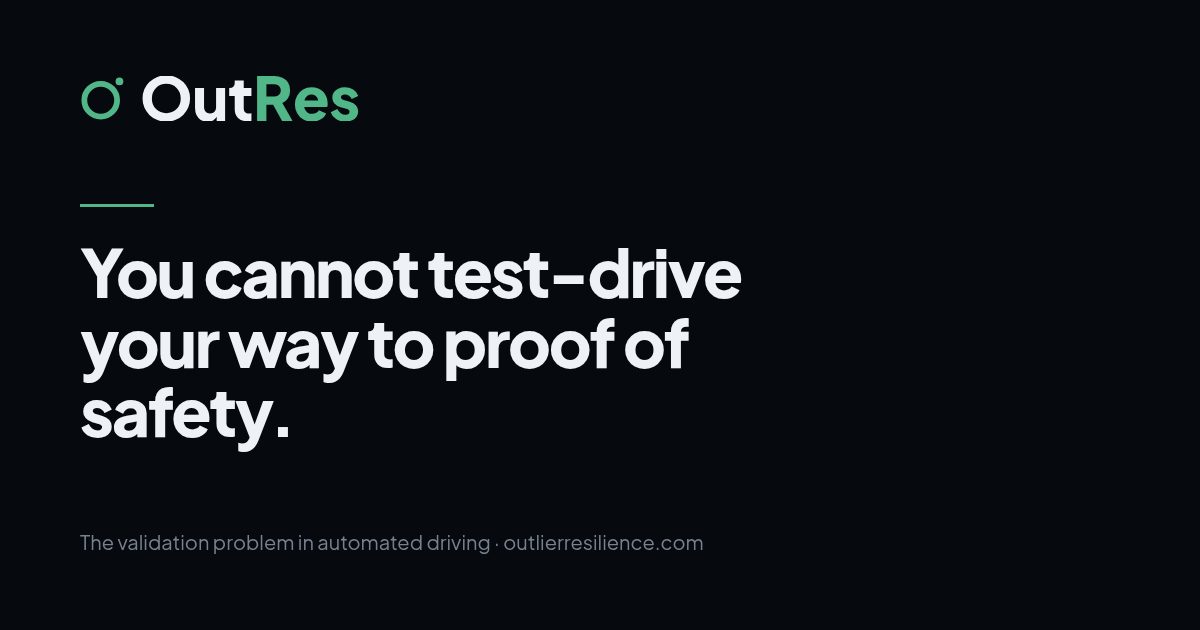
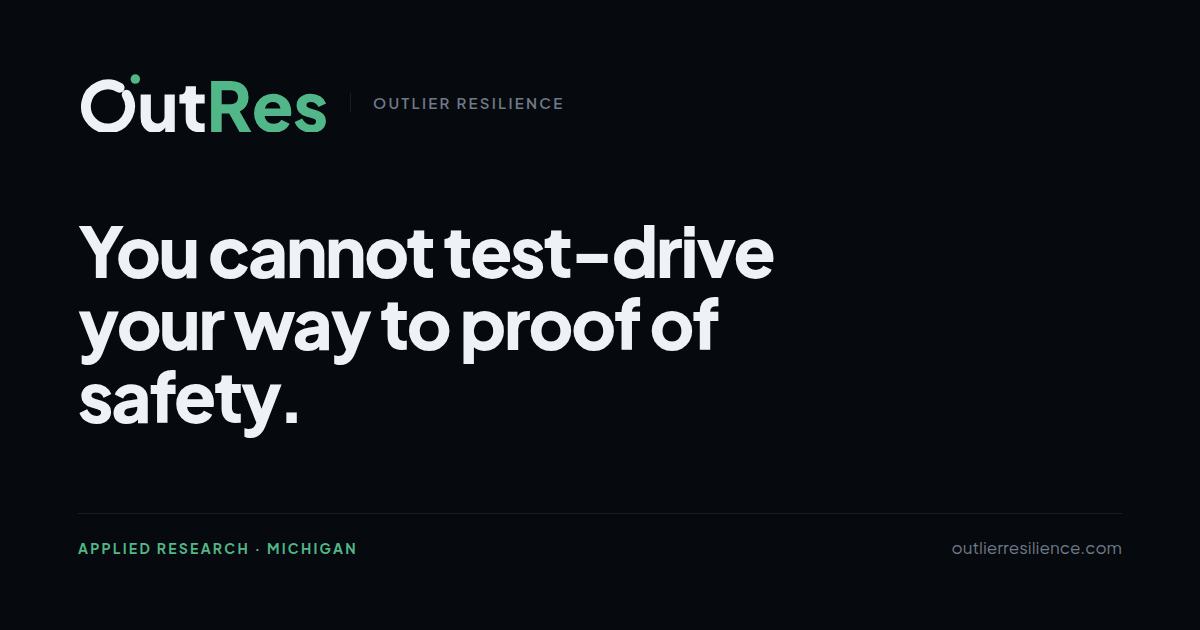
Make the mark the O of the wordmark, and clear the copy of AI tells
The old mark set a point one unit away from a closed ring, so the two
shapes fused. At small size it read as the Mars symbol. The green favicon
tile read as the Instagram glyph. The horizontal lockup then put that ring
beside the typeface O, so the eye read "O OutRes".

The ring now replaces the letter O. It carries a gap where the point
escaped, and that gap also breaks both misreadings. Green marks the point
and the word "Res", so the point reads as intent and not as a speck.

Logo:

- Retire the horizontal lockup. The wordmark is the primary logo.
- Rebuild the favicon as a dark tile with a green ring. It holds at 16 px
  on a light tab bar and on a dark one.
- Bake the colors into the shipped SVGs. currentColor does not cross an
  <img> boundary, so the old logo-mark.svg rendered black on black. Only
  the -mono files keep currentColor.
- Add tools/build-assets.py. The SVGs are generated, so edit the script.

Copy:

- Remove all 12 em dashes, including the ones in the title and the social
  card.
- Reduce the "not X, but Y" construction from five uses to three. The
  three that remain carry the argument.
- Drop the intensifier in "simply insufficient". Replace the unclear
  "Which sets the bar:".
- Even up the figures row. The third label ran to two lines on its own.

Claude-Session: https://claude.ai/code/session_01KYF6H8aFsV2YteBnZgoDUR

diff --git a/index.html b/index.html
@@ -3,7 +3,7 @@
 <head>
 <meta charset="UTF-8">
 <meta name="viewport" content="width=device-width, initial-scale=1">
-<title>OutRes — The Validation Problem in Automated Driving</title>
+<title>OutRes: The Validation Problem in Automated Driving</title>
 <meta name="description" content="Automated driving systems fail on the rare mile, not the average one. OutRes (Outlier Resilience LLC) is an applied research venture in Michigan working on the validation problem.">
 <link rel="canonical" href="https://outlierresilience.com/">
 
@@ -13,7 +13,7 @@
 <meta property="og:type" content="website">
 <meta property="og:url" content="https://outlierresilience.com/">
 <meta property="og:site_name" content="OutRes">
-<meta property="og:title" content="OutRes — The Validation Problem in Automated Driving">
+<meta property="og:title" content="OutRes: The Validation Problem in Automated Driving">
 <meta property="og:description" content="You cannot test-drive your way to proof of safety.">
 <meta property="og:image" content="https://outlierresilience.com/assets/og.png">
 <meta property="og:image:width" content="1200">
@@ -61,10 +61,10 @@ strong { color: var(--ink); font-weight: 600; }
 header.top { border-bottom: 1px solid var(--line); }
 header.top .wrap { display: flex; align-items: center; justify-content: space-between; height: 68px; gap: 20px; }
 .lockup { display: flex; align-items: center; gap: 15px; border: 0; }
-.lockup img { display: block; width: 150px; height: 24px; }
+.lockup img { display: block; width: 140px; height: 33px; }
 .lockup span {
-  font-size: 9px; font-weight: 600; letter-spacing: .2em; text-transform: uppercase;
-  color: var(--ink-3); line-height: 1.4; border-left: 1px solid var(--line); padding-left: 15px;
+  font-size: 10px; font-weight: 600; letter-spacing: .15em; text-transform: uppercase;
+  color: var(--ink-3); white-space: nowrap; border-left: 1px solid var(--line); padding-left: 15px;
 }
 nav { display: flex; gap: 24px; font-size: 13px; }
 nav a { color: var(--ink-3); border: 0; }
@@ -90,10 +90,10 @@ h2 {
 }
 h2 .n { position: absolute; left: 0; top: .12em; color: var(--accent); font-size: .72em; letter-spacing: .1em; }
 
-/* headline figures — not a chart */
+/* headline figures, not a chart */
 .kpi { display: grid; grid-template-columns: repeat(auto-fit, minmax(160px, 1fr)); gap: 26px 34px; margin: 26px 0; }
 .kpi .fig { font-size: 2.3rem; font-weight: 800; line-height: 1; letter-spacing: -.04em; color: var(--ink); font-variant-numeric: tabular-nums; }
-.kpi .lab { font-size: .8rem; color: var(--ink-3); margin-top: 8px; line-height: 1.45; }
+.kpi .lab { font-size: .8rem; color: var(--ink-3); margin-top: 8px; line-height: 1.45; min-height: 2.9em; }
 
 blockquote { margin: 24px 0 0; padding-left: 20px; border-left: 2px solid #2f6b50; max-width: var(--measure); }
 blockquote p { color: var(--ink); font-weight: 500; margin-bottom: 8px; }
@@ -129,9 +129,9 @@ footer a { color: var(--ink-3); border: 0; }
 
 <header class="top">
   <div class="wrap">
-    <a class="lockup" href="/" aria-label="OutRes — home">
-      <img src="assets/logo-lockup.svg" width="150" height="24" alt="OutRes">
-      <span>Outlier<br>Resilience</span>
+    <a class="lockup" href="/" aria-label="OutRes, home">
+      <img src="assets/logo-wordmark.svg" width="140" height="33" alt="OutRes">
+      <span>Outlier Resilience</span>
     </a>
     <nav>
       <a href="#problem">Problem</a>
@@ -145,8 +145,8 @@ footer a { color: var(--ink-3); border: 0; }
   <div class="hero wrap">
     <span class="eyebrow">Applied research · Michigan</span>
     <h1>You cannot test-drive your way to proof of safety.</h1>
-    <p>Automated driving systems fail on the rare mile, not the average one — and those miles are too rare to observe enough of.</p>
-    <p><strong>OutRes</strong> — Outlier Resilience LLC — is an early-stage applied research venture working on that problem.</p>
+    <p>Automated driving systems fail on the rare mile, not the average one. Those miles are too rare to observe enough of.</p>
+    <p><strong>OutRes</strong> (Outlier Resilience LLC) is an early-stage applied research venture working on that problem.</p>
   </div>
 
   <section id="problem">
@@ -165,7 +165,7 @@ footer a { color: var(--ink-3); border: 0; }
         </div>
         <div>
           <div class="fig">8.8B</div>
-          <div class="lab">Miles to pin the rate within 20% — about 400 years.</div>
+          <div class="lab">Miles to pin the rate within 20%. About 400 years.</div>
         </div>
       </div>
 
@@ -179,17 +179,17 @@ footer a { color: var(--ink-3); border: 0; }
   <section>
     <div class="wrap">
       <h2><span class="n">02</span>The standards name the gap, not the answer</h2>
-      <p>ISO 26262 covers hazards from things breaking. But a system can cause harm with every component working as designed — the design was simply insufficient for the situation.</p>
-      <p><a href="https://www.iso.org/standard/77490.html" rel="noopener">ISO 21448</a> (SOTIF) covers that: risk from <strong>functional insufficiencies</strong>, no failure required. It asks you to shrink the set of unknown-unsafe scenarios — not how to know how much you've eliminated.</p>
+      <p>ISO 26262 covers hazards from things breaking. But a system can cause harm with every component working as designed. The design was insufficient for the situation.</p>
+      <p><a href="https://www.iso.org/standard/77490.html" rel="noopener">ISO 21448</a> (SOTIF) covers that: risk from <strong>functional insufficiencies</strong>, no failure required. It asks you to shrink the set of unknown-unsafe scenarios. It does not tell you how to know how much you have eliminated.</p>
     </div>
   </section>
 
   <section>
     <div class="wrap">
       <h2><span class="n">03</span>The tail is not exotic. It's Tuesday in February.</h2>
-      <p>The conditions that degrade a perception stack are mundane, frequent and regional — easy to under-weight in a test program assembled somewhere sunny.</p>
+      <p>The conditions that degrade a perception stack are mundane, frequent and regional. A test program assembled somewhere sunny will under-weight them.</p>
       <dl>
-        <div><dt>Degraded optics</dt><dd>Low sun, wet glare, spray, a salted lens. The image still arrives — degraded.</dd></div>
+        <div><dt>Degraded optics</dt><dd>Low sun, wet glare, spray, a salted lens. The image still arrives, degraded.</dd></div>
         <div><dt>Vanishing road structure</dt><dd>Markings under snow or wear. Models that lean on paint inherit a dependency the road doesn't keep.</dd></div>
         <div><dt>Shifted statistics</dt><dd>A model fitted to clear conditions meets one it wasn't trained on. The failure is quiet.</dd></div>
         <div><dt>Compounding conditions</dt><dd>Dusk, precipitation and a worn surface at once. One-factor-at-a-time matrices miss the combinations.</dd></div>
@@ -200,7 +200,7 @@ footer a { color: var(--ink-3); border: 0; }
   <section>
     <div class="wrap">
       <h2><span class="n">04</span>Finding out late is the expensive way</h2>
-      <p>Early, a weakness is a design decision. In hardware-in-the-loop or on-road validation it is a schedule event. Which sets the bar: <strong>move the evidence earlier</strong>, onto conditions you have not sampled.</p>
+      <p>Early, a weakness is a design decision. In hardware-in-the-loop or on-road validation it is a schedule event. So the aim is to <strong>move the evidence earlier</strong>, onto conditions you have not sampled.</p>
     </div>
   </section>
 

diff --git a/tools/build-assets.py b/tools/build-assets.py
@@ -1,0 +1,75 @@
+"""Rebuild the OutRes brand SVGs.
+
+Run it from anywhere:  python3 tools/build-assets.py
+It writes the seven files in assets/. The PNGs are built separately; see the README.
+"""
+
+import json, math, os
+
+OUT = os.path.join(os.path.dirname(os.path.abspath(__file__)), "..", "assets")
+_glyphs = json.load(open(os.path.join(OUT, "wordmark-outlines.json")))
+d_res = _glyphs["Res"]
+D_UT = _glyphs["ut"]                      # the u and the t. The mark is the O.
+GLYPH = 'transform="translate(0,80) scale(0.107383,-0.107383)"'
+
+INK, ACC, BG = "#eef1f5", "#52b788", "#06090e"
+INK_L, ACC_L = "#10151c", "#2f8f66"       # on light grounds
+
+# The typeface O this ring replaces: centre, outer radius, and its stroke weights
+# (15.0 at the top, 16.7 at the sides). 15.5 sits between them.
+CX, CY, RO = 47.14, 40.0, 42.42
+SW, GAP, DOT_R = 15.5, 26, 7.5
+DOT_D = RO + 10.9 + DOT_R                 # ring outer, clear gap, then the point
+
+
+def broken_ring(cx, cy, ro, sw, gap, ringc, dotc, dot_r, dot_d):
+    """The ring, cut where the point left it, and the point."""
+    r = ro - sw / 2
+    a1, a2 = -45 + gap / 2, 360 - 45 - gap / 2
+    x1, y1 = cx + r * math.cos(math.radians(a1)), cy + r * math.sin(math.radians(a1))
+    x2, y2 = cx + r * math.cos(math.radians(a2)), cy + r * math.sin(math.radians(a2))
+    dx, dy = cx + dot_d * math.cos(math.radians(-45)), cy + dot_d * math.sin(math.radians(-45))
+    return (f'<path d="M {x1:.2f} {y1:.2f} A {r:.2f} {r:.2f} 0 1 1 {x2:.2f} {y2:.2f}" fill="none" '
+            f'stroke="{ringc}" stroke-width="{sw}" stroke-linecap="round"/>'
+            f'<circle cx="{dx:.2f}" cy="{dy:.2f}" r="{dot_r}" fill="{dotc}"/>')
+
+
+def svg(vb, body, w=None, h=None):
+    size = f'width="{w}" height="{h}" ' if w else ""
+    return (f'<svg xmlns="http://www.w3.org/2000/svg" {size}viewBox="{vb}" role="img" '
+            f'aria-label="OutRes"><title>OutRes</title>{body}</svg>')
+
+
+def wordmark(ink, acc, res=None):
+    """Primary logo. The O is the mark."""
+    res = res or acc
+    return svg("0 -14 393.1 94",
+               f'<g {GLYPH}><path fill="{ink}" d="{D_UT}"/><path fill="{res}" d="{d_res}"/></g>'
+               + broken_ring(CX, CY, RO, SW, GAP, ink, acc, DOT_R, DOT_D))
+
+
+def mark(ring, dot):
+    """The mark alone, for tiles, avatars and slides."""
+    return svg("0 0 100 100", broken_ring(50, 50, 37, 10, GAP, ring, dot, 6.5, 53))
+
+
+def tile(plate, ring, dot):
+    """Favicon. Heavier stroke: at 16 px the web line is too fine."""
+    return svg("0 0 200 200",
+               f'<rect width="200" height="200" rx="44" fill="{plate}"/>'
+               f'<g transform="translate(22,22) scale(1.52)">'
+               f'{broken_ring(50, 50, 37, 13, GAP, ring, dot, 7.5, 54)}</g>')
+
+
+files = {
+    "logo-wordmark.svg":       wordmark(INK, ACC),
+    "logo-wordmark-light.svg": wordmark(INK_L, ACC_L),
+    "logo-wordmark-mono.svg":  wordmark("currentColor", "currentColor"),
+    "logo-mark.svg":           mark(INK, ACC),
+    "logo-mark-light.svg":     mark(INK_L, ACC_L),
+    "logo-mark-mono.svg":      mark("currentColor", "currentColor"),
+    "favicon.svg":             tile(BG, ACC, INK),
+}
+for name, data in files.items():
+    open(os.path.join(OUT, name), "w").write(data + "\n")
+    print(f"{name:26} {len(data):6} bytes")

diff --git a/README.md b/README.md
@@ -1,6 +1,6 @@
 # outlier-resilience-web
 
-Website for **OutRes** (Outlier Resilience LLC) — https://outlierresilience.com
+Website for **OutRes** (Outlier Resilience LLC). https://outlierresilience.com
 
 A single static page. No build step, no framework, no external requests.
 
@@ -19,7 +19,7 @@ Cloudflare rebuilds within a minute or so. To preview locally first:
 python3 -m http.server 8000    # then open http://localhost:8000
 ```
 
-Use a local server rather than opening `index.html` directly — asset paths are
+Use a local server rather than opening `index.html` directly. Asset paths are
 absolute (`/assets/...`) and will not resolve over `file://`.
 
 ## Brand assets (`assets/`)
@@ -27,33 +27,62 @@ absolute (`/assets/...`) and will not resolve over `file://`.
 Everything is vector and hand-authored. There are no raster logos and no
 generated/AI artwork.
 
+**The logo is the wordmark.** Its `O` is the mark: a ring, cut where a single
+point escaped it. The point is the outlier. There is no separate horizontal
+lockup, and there should not be one. Setting the mark next to the word puts two
+`O` shapes side by side and the eye reads "O OutRes".
+
 | File | Use |
 |---|---|
-| `logo-lockup.svg` | Primary logo, icon + wordmark, for dark backgrounds |
-| `logo-lockup-light.svg` | Same, for light backgrounds |
-| `logo-wordmark.svg` | Wordmark only, two-tone |
-| `logo-wordmark-mono.svg` | Wordmark only, single color (`currentColor`) |
-| `logo-mark.svg` | Icon only (`currentColor`) — the ring with one point outside it |
+| `logo-wordmark.svg` | **Primary logo**, for dark backgrounds |
+| `logo-wordmark-light.svg` | Same, for light backgrounds |
+| `logo-wordmark-mono.svg` | Single color (`currentColor`), for inline SVG only |
+| `logo-mark.svg` | The ring alone, for tiles, avatars and slide corners |
+| `logo-mark-light.svg` | Same, for light backgrounds |
+| `logo-mark-mono.svg` | Single color (`currentColor`), for inline SVG only |
 | `favicon.svg` | Square tile, browser tab / avatar |
-| `logo-lockup.png` | 1600×256 transparent PNG, for slides and LinkedIn |
-| `icon-512.png` | 512×512 tile, for profile pictures |
-| `og.png` | 1200×630 social preview |
+| `logo-wordmark.png` | 1600x383 transparent PNG, for slides and LinkedIn |
+| `icon-512.png` | 512x512 tile, for profile pictures |
+| `og.png` | 1200x630 social preview |
 
-**The mark:** a ring — the *O* of OutRes — with a single point sitting outside
-it. The point is the outlier. It is built from two circles and nothing else, so
-it stays legible down to 16px and recolors cleanly.
+**Use the plain file, not the `-mono` one, in an `<img>` tag.** `currentColor`
+does not cross an `<img>` boundary, so a `-mono` file dropped into a page
+renders black. The `-mono` files are for inline SVG and CSS masks.
 
-**Regenerating the wordmark.** The wordmark is *outlined* glyph geometry, not
-live text, so it renders identically everywhere without the font. If it ever
-needs rebuilding (different weight, different string), the outlines were
-extracted from `plus-jakarta-sans-latin.woff2` with `fontTools`. See
-`assets/FONT-LICENSE.md`.
+**Color.** Accent `#52b788` on dark, `#2f8f66` on light. Ink `#eef1f5`,
+background `#06090e`. Green marks the outlier and the word "Res". Nothing else
+on the page is green except the accent furniture that was already there.
 
-**Color.** Accent `#52b788`, ink `#eef1f5`, background `#06090e`.
+**Rebuilding.** The SVGs are generated, so edit the script and not the files:
+
+```bash
+python3 tools/build-assets.py
+```
+
+It reads outlined glyph geometry from `assets/wordmark-outlines.json` and draws
+the ring from the numbers at the top of the script. The wordmark is *outlined*
+glyphs, not live text, so it renders identically everywhere without the font.
+The outlines were extracted from `plus-jakarta-sans-latin.woff2` with
+`fontTools`; see `assets/FONT-LICENSE.md`. The `O` is deliberately absent from
+the outlines: the mark takes its place.
+
+The three PNGs are screenshots of the SVGs, taken at a fixed window size:
+
+```bash
+google-chrome --headless --screenshot=assets/og.png --window-size=1200,630 \
+  --default-background-color=00000000 file://$PWD/<page>.html
+```
+
+## Writing
+
+No em dashes. Short sentences, active voice, one idea each. Avoid the tells
+listed at [Wikipedia:Signs of AI
+writing](https://en.wikipedia.org/wiki/Wikipedia:Signs_of_AI_writing), in
+particular the "not X, but Y" construction, which is easy to overuse.
 
 ## Content note
 
 The page deliberately describes the *problem* and makes no claims about our own
 methods or results. The two figures cited are from published sources
-(RAND RR-1478; ISO 21448:2022) and are quoted accurately — if you edit that
+(RAND RR-1478; ISO 21448:2022) and are quoted accurately. If you edit that
 section, keep the numbers tied to the citations.

diff --git a/assets/FONT-LICENSE.md b/assets/FONT-LICENSE.md
@@ -10,6 +10,6 @@ The OFL permits bundling and self-hosting the font with a website. The font is
 served from this repository rather than a third-party CDN, so the site makes no
 external requests.
 
-The `OutRes` wordmark in `logo-wordmark*.svg` and `logo-lockup*.svg` was produced
+The `OutRes` wordmark in `logo-wordmark*.svg` was produced
 by converting glyphs from this font to outlines. Under the OFL this is permitted:
 outlined artwork derived from an OFL font is not itself bound by the license.
